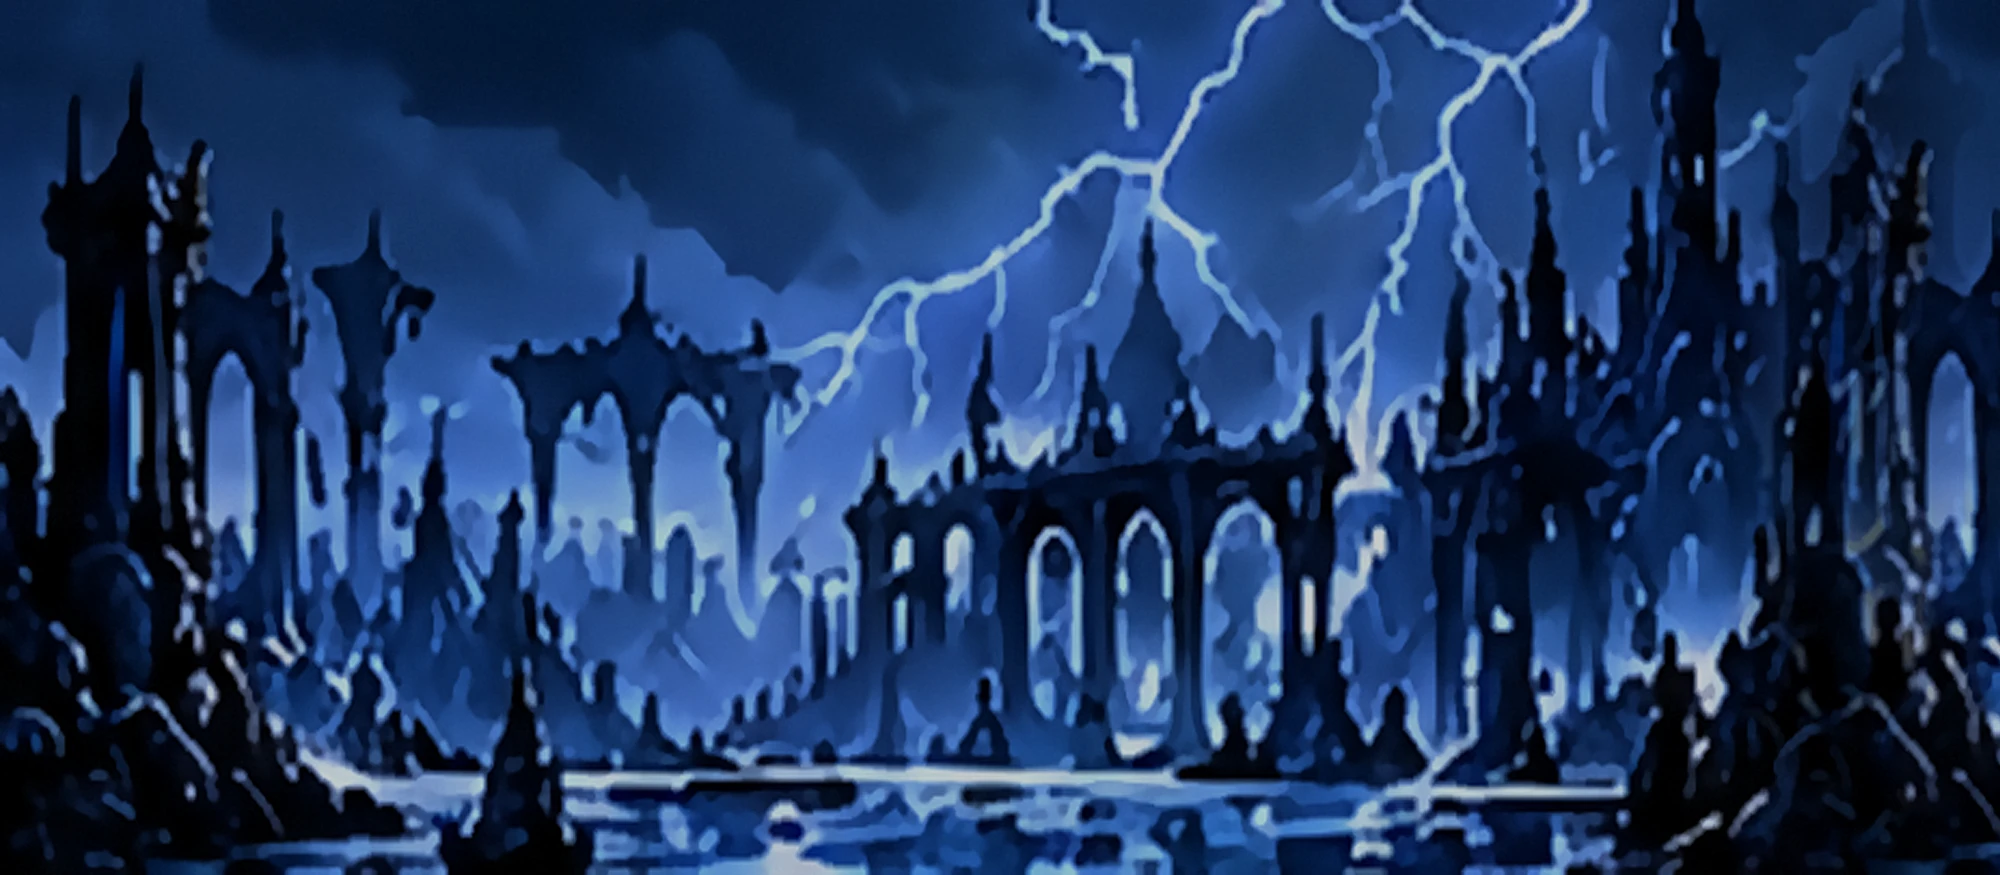
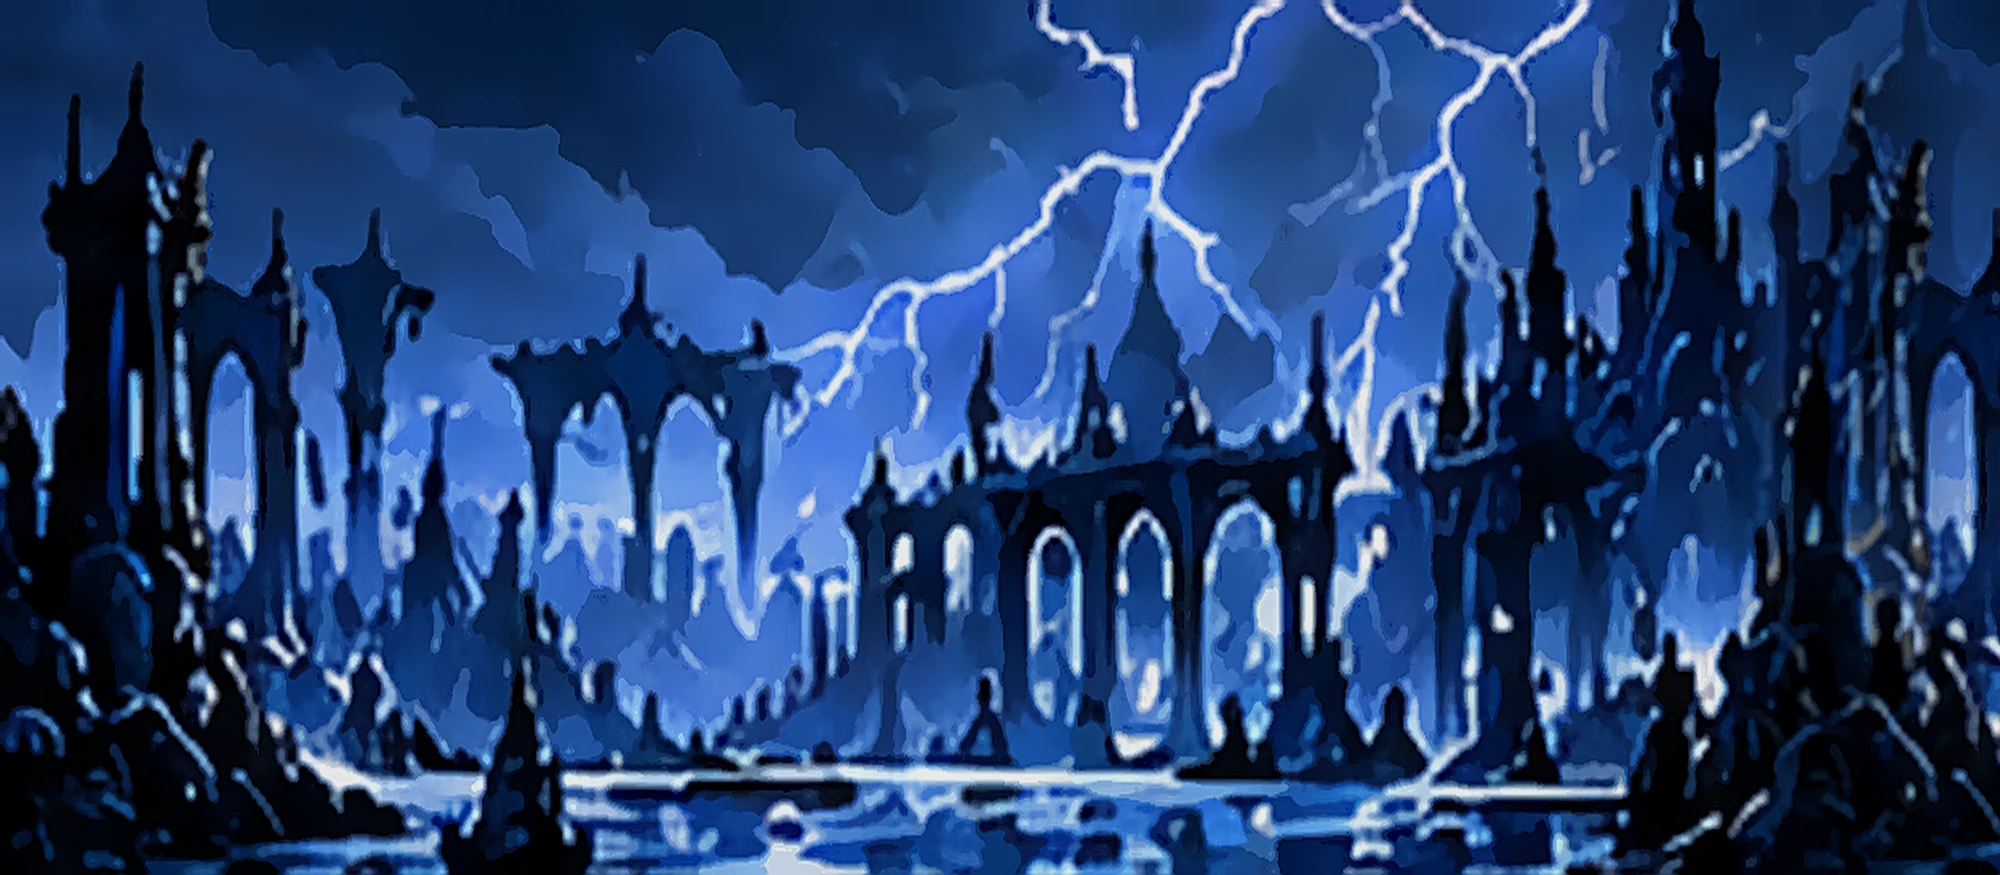
Backgrounds and borders made clear: cel-flattened concept pictures with firm edges, thinner overlay layers, lighter textured rock and light lines on both sides of every terrain border

diff --git a/duskwell/js/art_world.js b/duskwell/js/art_world.js
@@ -81,10 +81,10 @@ Art.renderLevel = function (L, s) {
     for (let j = -2; j <= 2; j++) for (let i = -2; i <= 2; i++) if (!isS(x + i, y + j)) air++;
     const v = hash2(x, y, seed);
     const depth = clamp(air / 10, 0, 1);
-    g.fillStyle = mix(mix(th.tile, '#000000', 0.42 - depth * 0.26), th.hi, v * 0.018);
+    g.fillStyle = mix(mix(th.tile, '#000000', 0.26 - depth * 0.16), th.hi, 0.06 + v * 0.035);
     g.fillRect(x * TILE - 0.5, y * TILE - 0.5, TILE + 1, TILE + 1);
-    if (v > 0.6 && depth > 0.2) {            // rounded pebbles in the rock face
-      g.fillStyle = rgba(th.hi, 0.05); ellipse(g, x * TILE + 8 + v * 16, y * TILE + 10 + v * 10, 6 + v * 5, 4 + v * 3); g.fill();
+    if (v > 0.45) {                           // rounded pebbles in the rock face, also deep inside so a mass of rock is never a flat black
+      g.fillStyle = rgba(th.hi, 0.08 + depth * 0.03); ellipse(g, x * TILE + 8 + v * 16, y * TILE + 10 + v * 10, 6 + v * 5, 4 + v * 3); g.fill();
       g.strokeStyle = 'rgba(0,0,0,0.25)'; g.lineWidth = 1.5; g.stroke();
     }
   }
@@ -114,6 +114,20 @@ Art.renderLevel = function (L, s) {
     if (eB) { g.moveTo(px, py + TILE + wob(x, y + 1)); g.lineTo(px + TILE, py + TILE + wob(x + 1, y + 1)); }
     if (eL) { g.moveTo(px + wob(x, y + 3), py); g.lineTo(px + wob(x, y + 4), py + TILE); }
     if (eR) { g.moveTo(px + TILE + wob(x + 1, y + 3), py); g.lineTo(px + TILE + wob(x + 1, y + 4), py + TILE); }
+    g.stroke();
+    // the border read clearly against any background: a light line just inside the ink, and a faint light line just outside it
+    g.lineCap = 'round';
+    g.strokeStyle = rgba(th.hi, 0.5); g.lineWidth = 1.6; g.beginPath();
+    if (!eT) { /* the top rim is drawn above */ } else { g.moveTo(px + 1, py + 4.5); g.lineTo(px + TILE - 1, py + 4.5); }
+    if (eL) { g.moveTo(px + 4.5, py + (eT ? 6 : 0)); g.lineTo(px + 4.5, py + TILE - (eB ? 6 : 0)); }
+    if (eR) { g.moveTo(px + TILE - 4.5, py + (eT ? 6 : 0)); g.lineTo(px + TILE - 4.5, py + TILE - (eB ? 6 : 0)); }
+    if (eB) { g.moveTo(px + 1, py + TILE - 4.5); g.lineTo(px + TILE - 1, py + TILE - 4.5); }
+    g.stroke();
+    g.strokeStyle = rgba(th.hi, 0.3); g.lineWidth = 1.4; g.beginPath();
+    if (eT) { g.moveTo(px, py - 3.4); g.lineTo(px + TILE, py - 3.4); }
+    if (eL) { g.moveTo(px - 3.4, py); g.lineTo(px - 3.4, py + TILE); }
+    if (eR) { g.moveTo(px + TILE + 3.4, py); g.lineTo(px + TILE + 3.4, py + TILE); }
+    if (eB) { g.moveTo(px, py + TILE + 3.4); g.lineTo(px + TILE, py + TILE + 3.4); }
     g.stroke();
     themeDetail(g, th, L, x, y, px, py, v, eT, eB, isS);
     if (L.isIce(x, y)) {                         // slippery ice: a pale glaze with a bright streak
@@ -408,7 +422,7 @@ function drawCritters(g, th, camX, camY, t) {
 const PAINT_P = 1600, PAINT_H = 700, PAINT_TOP = -40, SKY_Z = 160, PAINT_KEEP = 3;
 // The sky layer of these areas is the owner's concept picture (tools/paint/import_concept.py): a whole scene, so the painted
 // silhouette layers over it are thinned (alpha per layer: sky, far, mid, near) to let it show while the play field stays readable.
-const CONCEPT_ALPHA = { default: [1, 0, 0.5, 0.85] };
+const CONCEPT_ALPHA = { default: [1, 0, 0.2, 0.35] };
 for (const k of ['town', 'cave', 'moss', 'spore', 'aqueduct', 'crystal', 'webbed', 'foundry', 'throne', 'frost', 'ember', 'storm', 'mirror', 'bone', 'lunar']) CONCEPT_ALPHA[k] = CONCEPT_ALPHA.default;
 const painted = new Map();             // theme -> { imgs, n, ready }, most recently used last
 Art.loadPainted = function (theme) {

diff --git a/duskwell/tools/paint/import_concept.py b/duskwell/tools/paint/import_concept.py
@@ -2,7 +2,7 @@
 """Turns the owner's background concept sheet (art/source/backgrounds_concept/sheet_all15_areas.png: 15 areas, each a wide picture
 plus Sky/Far/Mid/Near strips) into the game's backdrop layers.
 The strips are only ~140x30 px and carry their own opaque sky, so they cannot serve as layers; the big picture of each area (about
-315x129 px) is what is used: cropped, upscaled with a sharpened bicubic, given a fine painted grain, made to tile sideways, darkened
+315x129 px) is what is used: cropped, upscaled with a sharpened bicubic, flattened into clean cel colours with firm edges, made to tile sideways, darkened
 a little so the play field stays readable, and saved as art/bg/<theme>/sky.webp (the opaque back layer, 2000x875 = 1600x700 logical).
 Row 5 of the sheet was squeezed vertically in the original image; it is stretched back.
 usage: import_concept.py [theme ...]   (default: all)"""
@@ -16,7 +16,8 @@ SHEET = os.path.join(ROOT, 'art', 'source', 'backgrounds_concept', 'sheet_all15_
 AREAS = {'town': (0, 0), 'cave': (1, 0), 'moss': (2, 0), 'spore': (0, 1), 'aqueduct': (1, 1), 'crystal': (2, 1), 'webbed': (0, 2), 'foundry': (1, 2), 'throne': (2, 2),
          'frost': (0, 3), 'ember': (1, 3), 'storm': (2, 3), 'mirror': (0, 4), 'bone': (1, 4), 'lunar': (2, 4)}
 ROW_Y = [0, 222, 444, 666, 870]
-DIM = {'town': 0.78, 'cave': 0.8, 'moss': 0.82, 'spore': 0.74, 'aqueduct': 0.8, 'crystal': 0.8, 'webbed': 0.78, 'foundry': 0.72, 'throne': 0.74, 'frost': 0.85, 'ember': 0.72, 'storm': 0.8, 'mirror': 0.8, 'bone': 0.8, 'lunar': 0.8}
+DIM = {k: 0.92 for k in AREAS}
+DIM.update({'frost': 0.88, 'ember': 0.84, 'foundry': 0.86, 'spore': 0.88})
 
 def picture(sheet, col, row):
     x0 = col * 512
@@ -32,15 +33,14 @@ def picture(sheet, col, row):
     return pic
 
 def upscale(pic, W=2000, H=875):
-    """denoise the small picture, enlarge it 3x, smooth it with an edge-preserving filter (a painterly look instead of the blocky
-    mosaic that plain enlargement shows), then to the layer size with a light sharpen"""
+    """enlarge 4x, flatten the colours with a mean-shift (the cel look: clean areas with firm edges instead of the mush that a plain
+    enlargement or a blur-heavy denoise gives), down to the layer size with Lanczos, then sharpen the edges"""
     import cv2
     x = cv2.cvtColor(np.asarray(pic), cv2.COLOR_RGB2BGR)
-    x = cv2.fastNlMeansDenoisingColored(x, None, 6, 6, 5, 15)
-    x = cv2.resize(x, None, fx=3, fy=3, interpolation=cv2.INTER_CUBIC)
-    for _ in range(2): x = cv2.bilateralFilter(x, 9, 32, 6)
-    x = cv2.resize(x, (W, H), interpolation=cv2.INTER_CUBIC)
-    x = cv2.addWeighted(x, 1.55, cv2.GaussianBlur(x, (0, 0), 2.2), -0.55, 0)
+    x = cv2.resize(x, None, fx=4, fy=4, interpolation=cv2.INTER_CUBIC)
+    x = cv2.pyrMeanShiftFiltering(x, 9, 22)
+    x = cv2.resize(x, (W, H), interpolation=cv2.INTER_LANCZOS4)
+    x = cv2.addWeighted(x, 2.3, cv2.GaussianBlur(x, (0, 0), 2.0), -1.3, 0)
     return Image.fromarray(cv2.cvtColor(x, cv2.COLOR_BGR2RGB))
 
 def seamless(a, frac=0.14):
@@ -65,7 +65,7 @@ def main():
     for th in themes:
         col, row = AREAS[th]
         pic = picture(sheet, col, row); pic.save(os.path.join(src, th + '.png'))
-        a = grain(seamless(upscale(pic)))
+        a = seamless(upscale(pic))
         a = Image.fromarray(np.clip(np.asarray(a).astype(np.float32) * DIM[th], 0, 255).astype(np.uint8))
         out = os.path.join(ROOT, 'art', 'bg', th); os.makedirs(out, exist_ok=True)
         a.save(os.path.join(out, 'sky.webp'), quality=90, method=6)

diff --git a/duskwell/README.md b/duskwell/README.md
@@ -32,7 +32,7 @@
 - **نداء الغسق (↑ + F):** التعويذة الثالثة بعد كرة الروح والانقضاض. يبيعها التاجر بـ 500 جيو: تتجمّد في مكانك ويقوم عمود نور فوقك يضرب كل ما فيه خمس مرات ويحبسه داخله، ويتوقف عند أول سقف. ويكلّف روحاً مثل بقية التعاويذ.
 - **التمائم (Charms):** 21 تميمة أصلية بأسماء وتصاميم من عندنا، كل واحدة تغيّر طريقة اللعب: نصل طويل، ضربة الريح، ماصّة الروح، تركيز سريع، تركيز عميق، عباءة الشوك، حذاء الريح، سيّد الاندفاع، حجر الساحر، صدى الألم، مغناطيس الجيو، اقتصاد الروح، غضب الأخير، ودرع الصدفة، ونعل المسامير (لا انزلاق على الجليد)، وفتيل الفانوس (ضوء أوسع)، ونصل الجمر (كل ضربة تترك حرقاً يؤذي العدو بعد لحظة)، وعباءة العاصفة، وصدى النصل. لكل تميمة تكلفة بالفتحات؛ تبدأ بثلاث فتحات، وتزيد واحدة مع كل ختمين من أختام الحرّاس، وللتاجر فتحتان إضافيتان. إن ارتديت أكثر من الفتحات تصير «مُثقَلاً» وتكلّفك كل إصابة الضعف. تُبدَّل التمائم من قائمة الإيقاف ← التمائم، وأنت جالس على مقعد فقط. تسع منها مخبّأة في زوايا العالم (بجوار الكنوز)، وسبع يُسقطها الحرّاس (ماصّة الروح، اقتصاد الروح، التركيز العميق، وفتيل الفانوس من ملكة الصقيع، ونصل الجمر من العملاق الجمري، وعباءة العاصفة من طائر العاصفة، وصدى النصل من توأم الجوّال)، وثلاث يبيعها التاجر (نصل طويل، حذاء الريح، مغناطيس الجيو). الكود في `js/charms.js` ورسم الأيقونات في `js/art_charms.js`.
 - موسيقى أوركسترالية مسجّلة: 21 مقطوعة أصلية (افتتاحية أوركسترالية كبرى لشاشة البداية، وخاتمة منتصرة، ومقطوعة لكل منطقة بما فيها المقبرة العظمية القوطية بالأرغن والجوقة ومرصد القمر الراقص بالفالس، مقطوعة لكل منطقة بما فيها ريمكرست البلّورية وسيندرديب الثقيلة وذرى العاصفة المندفعة وقبو المرايا الزجاجي، وثلاث معارك للزعماء: العامة والملك الأخير ومعركتا المقبرة والمرصد) تتكرر بلا انقطاع وتتبدّل بمزج تدريجي.
-- **خلفيات المناطق الخمس عشرة من رسمك:** الطبقة الخلفية لكل منطقة هي صورة المنطقة من ورقة الخلفيات (`art/source/backgrounds_concept/sheet_all15_areas.png`)، مقصوصة ومنظَّفة من التشويش ومكبَّرة بفلتر يحفظ الحواف (مظهر لوحة زيتية بدل المربعات)، ومعتمة قليلاً لتبقى ساحة اللعب مقروءة، وتتكرر أفقياً بلا حدود (`tools/paint/import_concept.py`). الطبقات القديمة المرسومة بالكود فوقها أخفّ: البعيدة مخفية والمتوسطة نصف شفافة والقريبة 85%. شرائط Sky/Far/Mid/Near في الورقة صغيرة جداً (نحو 140×30 بكسل) وفيها سماؤها الخاصة، فلا تصلح طبقات، وهي محفوظة مرجعاً. شاشة البداية بقيت بخلفيتها السابقة.
+- **خلفيات المناطق الخمس عشرة من رسمك:** الطبقة الخلفية لكل منطقة هي صورة المنطقة من ورقة الخلفيات (`art/source/backgrounds_concept/sheet_all15_areas.png`)، مقصوصة ومكبَّرة 4 مرات ومسطَّحة الألوان بـmean-shift (مظهر رسم كرتوني بحواف واضحة بدل البقع)، ومعتمة قليلاً جداً لتبقى ساحة اللعب مقروءة، وتتكرر أفقياً بلا حدود (`tools/paint/import_concept.py`). الطبقات القديمة المرسومة بالكود فوقها أخفّ: البعيدة مخفية والمتوسطة 20% والقريبة 35%. وحدود الأرض والجدران لها الآن خط ضوء داخل الحبر وخط أخفّ خارجه وصخر أفتح بملمس حصى، فتُقرأ على أي خلفية. شرائط Sky/Far/Mid/Near في الورقة صغيرة جداً (نحو 140×30 بكسل) وفيها سماؤها الخاصة، فلا تصلح طبقات، وهي محفوظة مرجعاً. شاشة البداية بقيت بخلفيتها السابقة.
 - خلفيات مرسومة عالية الدقة (الطبقات الأمامية والمتوسطة): سماء وثلاث طبقات عمق لكل منطقة ولشاشة البداية، بحواف عضوية وضربات فرشاة وإضاءة حافّات وضباب جوّي.
 
 ## معرض الصور
